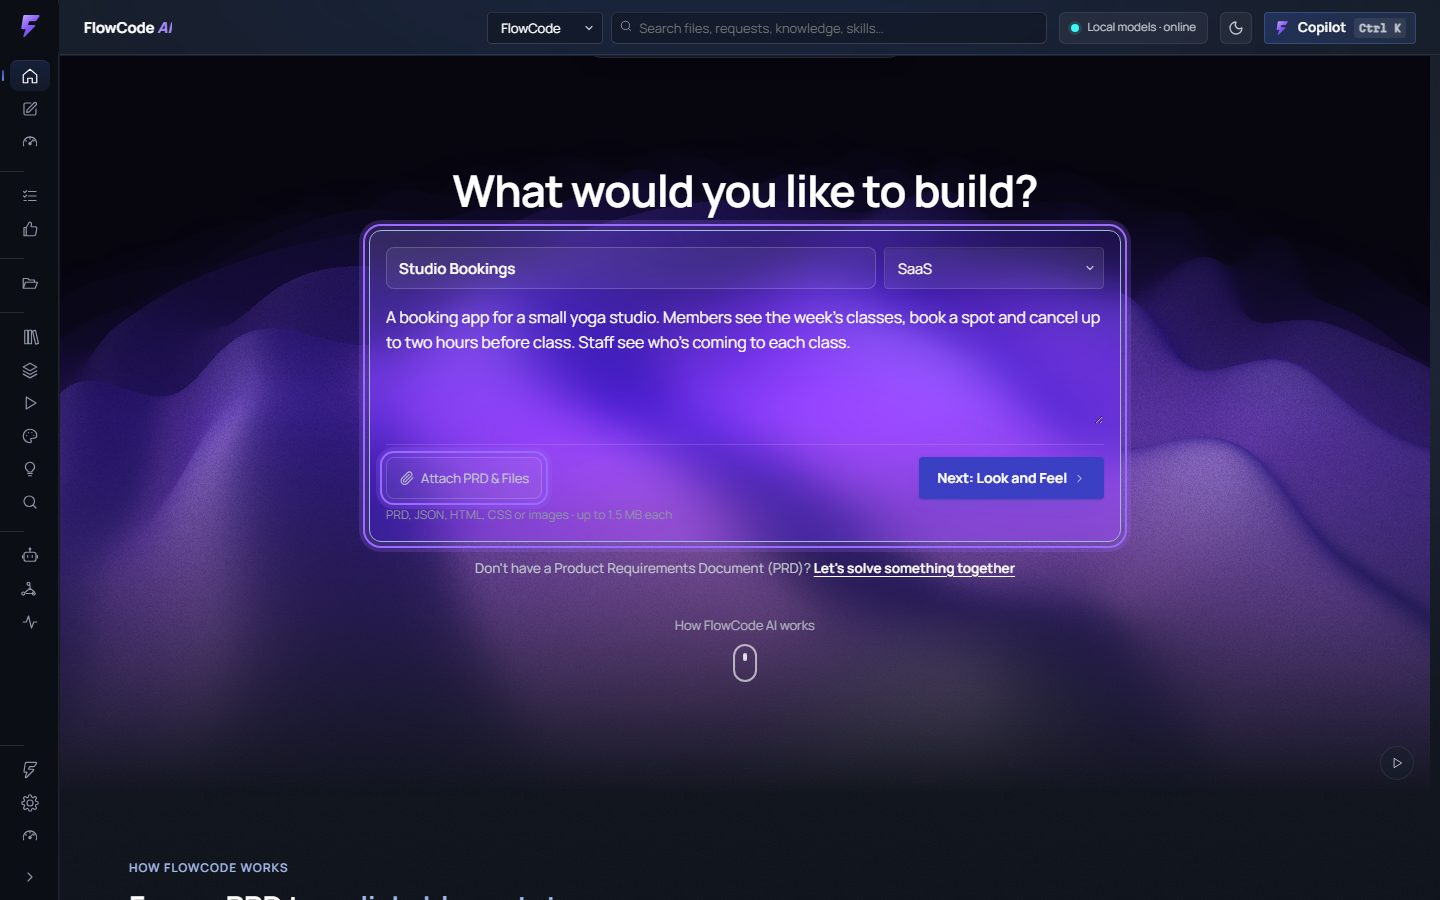
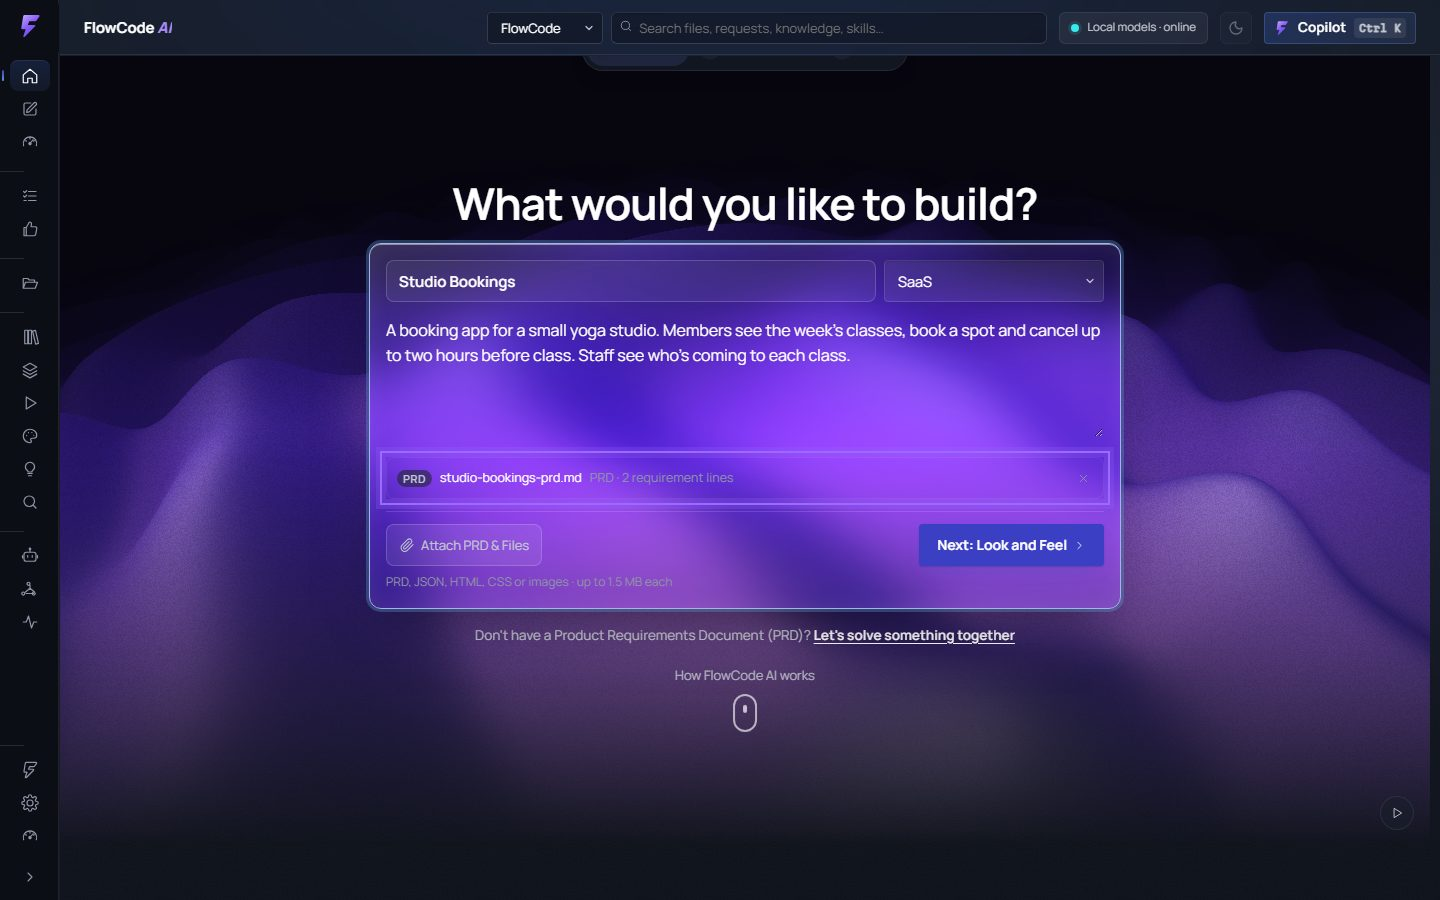
Screenshots: Home with a PRD attached, Create PRD, and the sample app running in the builder's Preview tab (Walkthrough and Feature guide). guide-shots.mjs attaches a sample PRD, hides toasts and stop notices, and keeps the draft-only shots separate. Home leaves room so the scroll cue never overlaps

diff --git a/packages/contracts/src/featureCatalog.ts b/packages/contracts/src/featureCatalog.ts
@@ -86,7 +86,7 @@ export const FEATURE_CATALOG: Feature[] = [
   { id: "builder.troubleshoot", kind: "action", area: "Builder", title: "Troubleshoot", route: "/projects/:project", parent: "page.builder", summary: "Explains why a task or run got stuck and offers fixes.", details: "Fixes include retrying with specific guidance, sending a follow-up, re-running a check, opening Models, or undoing the task's changes (asks to confirm).", related: ["concept.self-recovery"], parts: [{"name":"Diagnosis","what":"What went wrong, from the run's evidence"},{"name":"Retry with this fix","what":"Retries the step with specific guidance"},{"name":"Send as follow-up","what":"Starts a new request with the fix"},{"name":"Re-run","what":"Runs a failed check again"},{"name":"Open Models","what":"When the problem is the model"},{"name":"Undo changes","what":"Rolls back the step's file changes (asks first)"}], keywords: ["troubleshoot", "stuck", "blocked", "fix"] },
   { id: "builder.files", tab: "files", kind: "component", area: "Builder", title: "Files", route: "/projects/:project", parent: "page.builder", summary: "The project's file tree; changed files are highlighted.", details: "Click a file to open it. Preflight at the bottom (collapsible) shows the project type, package manager, manifest status, preview strategy and which checks run automatically.", anchors: ["ws.files", "ws.preflight"], parts: [{"name":"File tree","what":"Folders and files in the project"},{"name":"Changed files","what":"Highlighted in purple"},{"name":"Open a file","what":"Click to view it on the right"},{"name":"Preflight","what":"Collapsible summary: type, package manager, manifest, preview, automatic checks"},{"name":"Re-run","what":"Re-reads the project setup"}], keywords: ["files", "tree", "preflight"] },
   { id: "builder.knowledge", tab: "knowledge", kind: "component", area: "Builder", title: "Builder Knowledge tab", route: "/projects/:project", parent: "page.builder", summary: "The project knowledge agents use while building.", details: "Decisions, notes, specs, the repository map and pinned items. Research and uploaded documents stay in the Knowledge Hub (one line links to them).", related: ["page.knowledge"], parts: [{"name":"Build items","what":"Decisions, notes, specs and the repository map"},{"name":"Pinned items","what":"Anything you pinned in the Knowledge Hub"},{"name":"Knowledge Hub link","what":"Count of documents and research; opens the Knowledge Hub"}], keywords: ["knowledge", "notes", "decisions", "spec"] },
-  { id: "builder.tab.preview", tab: "preview", kind: "component", area: "Builder", title: "Preview tab", route: "/projects/:project", parent: "page.builder", summary: "The running app, live.", details: "FlowCode starts the dev server and shows the app; screenshots at mobile, tablet and desktop sizes are taken during checks.", parts: [{"name":"Live preview","what":"The app running on a local dev server"},{"name":"Address","what":"The local preview URL"},{"name":"Stop","what":"Stops the preview server"},{"name":"Screenshots","what":"Mobile, tablet and desktop captures from the checks"}], keywords: ["preview", "live", "app", "screenshot"] },
+  { id: "builder.tab.preview", tab: "preview", kind: "component", area: "Builder", title: "Preview tab", route: "/projects/:project", parent: "page.builder", summary: "The running app, live.", details: "FlowCode starts the dev server and shows the app; screenshots at mobile, tablet and desktop sizes are taken during checks.", parts: [{"name":"Live preview","what":"The app running on a local dev server"},{"name":"Address","what":"The local preview URL"},{"name":"Stop","what":"Stops the preview server"},{"name":"Screenshots","what":"Mobile, tablet and desktop captures from the checks"}], keywords: ["preview", "live", "app", "screenshot"], shot: { name: "builder-preview", lookFor: "The Preview tab on the right: the app running live. Click through it like a user would." }},
   { id: "builder.tab.styles", tab: "styles", kind: "component", area: "Builder", title: "Design tab", route: "/projects/:project", parent: "page.builder", summary: "How the app is styled: tokens you can edit, a visual style sheet of its building blocks and components, and its screens with their design coverage and specs.", details: "Tokens: edits go through FlowCode's safe file editing (snapshotted, undoable); unused tokens are hidden until you ask. Components: CSS classes the app uses, drawn with its own stylesheets from real examples in its code, plus its React components with props and where they're used. The builder gets the same list on every interface step so it reuses these.", parts: [{"name":"Tokens / Components","what":"Switch between editable tokens and the visual style sheet"},{"name":"Show unused","what":"Reveal tokens that nothing in the app uses"},{"name":"Building blocks","what":"The app's CSS classes and their variants, rendered with its own styles"},{"name":"Components list","what":"React components with props, usage and an example"},{"name":"Colors","what":"Brand, surface, text and status colors"},{"name":"Typography","what":"Fonts, sizes and weights"},{"name":"Spacing and radius","what":"Gaps, padding and corner rounding"},{"name":"Edit","what":"Change a value; it is saved safely and can be undone"}], keywords: ["styles", "tokens", "colors", "design", "css"], shot: { name: "builder-design", lookFor: "The Design tab on the right: colors, type and shape, with Change in Look to adjust them." }},
   { id: "builder.tab.changes", tab: "review", kind: "component", area: "Builder", title: "Review tab", route: "/projects/:project", parent: "page.builder", summary: "What changed, what was checked, and what needs attention.", details: "A plain summary first, then separate sections: changes made (files by step, with diffs and undo), checks and results, what needs attention, checks that couldn't run or were skipped, and suggested next actions. Every edit is snapshotted first, so any file or step can be undone.", related: ["concept.snapshots"], parts: [{"name":"Summary","what":"What changed and how checking went, in a sentence"},{"name":"Changes made","what":"Files each step changed, with diffs and undo"},{"name":"Checks","what":"Every check and its result"},{"name":"Needs attention","what":"Failed checks and stopped steps"},{"name":"Couldn't run","what":"Checks that didn't run, so that part isn't verified"},{"name":"Next","what":"What to do next"}], keywords: ["review", "changes", "diff", "undo", "rollback", "checks"], shot: { name: "builder-review", lookFor: "The Review tab on the right: every changed file, grouped by what it affects, each with an undo." }},
   { id: "builder.tab.activity", tab: "activity", kind: "component", area: "Builder", title: "Activity tab", route: "/projects/:project", parent: "page.builder", summary: "The step-by-step log of a run.", details: "Model calls, tool calls, checks, and FlowCode's own recovery actions (fast-model hand-offs, undone steps, clearer retries).", related: ["concept.self-recovery", "concept.fast-model"], parts: [{"name":"Timeline","what":"Every model call, tool call and check, in order"},{"name":"Recovery actions","what":"Fast-model hand-offs, undone steps, clearer retries"},{"name":"Levels","what":"Warnings and errors stand out"}], keywords: ["activity", "log", "events"] },

diff --git a/apps/ui/src/views/WalkthroughView.tsx b/apps/ui/src/views/WalkthroughView.tsx
@@ -291,6 +291,7 @@ function Change() {
         ]}
       />
       <Card title="On screen">
+        <GuideShot name="builder-preview" alt="The builder's Preview tab" lookFor="The Preview tab on the right: the app running live. Click through it like a user would." />
         <GuideShot name="builder-chat" alt="The builder's Chat" lookFor="The message box under the chat. Type a change in your own words; while a build runs, Queue change sends it when the build finishes." />
       </Card>
     </>

diff --git a/apps/ui/src/styles/home.css b/apps/ui/src/styles/home.css
@@ -394,3 +394,5 @@ a.home__drafts-btn { text-decoration: none; }
 .theme-toggle:disabled { opacity: 0.45; cursor: not-allowed; }
 /* About FlowCode's three tabs share one width (the app's page width), so switching tabs doesn't jump. */
 #main .dots-bg > .page.ab2 { max-width: 1360px !important; width: 100%; }
+/* Room under Home's content for the scroll cue, so a taller composer (an attached PRD) never runs into it. */
+.home:has(+ .home__how) .home__inner { padding-bottom: 200px; }

diff --git a/scripts/guide-assets/studio-bookings-prd.md b/scripts/guide-assets/studio-bookings-prd.md
@@ -1,0 +1,20 @@
+# Studio Bookings
+
+## 1. Problem
+Members of a small yoga studio can't see which classes have spots left, and staff don't know who is coming.
+
+## 2. Users
+- Members who book classes
+- Staff who run classes and mark attendance
+
+## 3. Requirements
+### R1 — Week schedule
+Members see this week's classes by day, with spots left.
+### R2 — Book a spot
+Booking a class with spots left adds it to My bookings.
+### R3 — Cancel
+Members can cancel up to two hours before class; the spot frees up.
+### R4 — Class list for staff
+Staff see who is booked into each class.
+### R5 — Attendance
+Staff mark each member present or absent.
